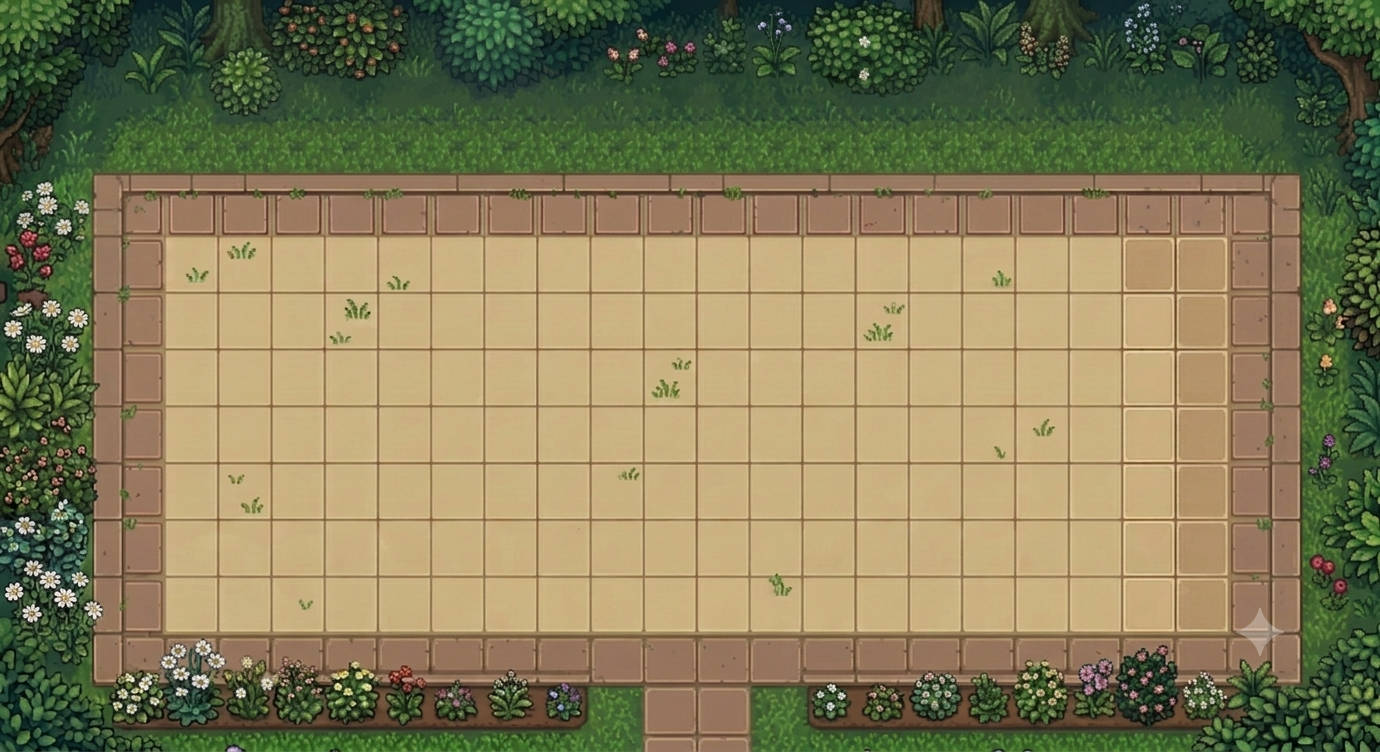
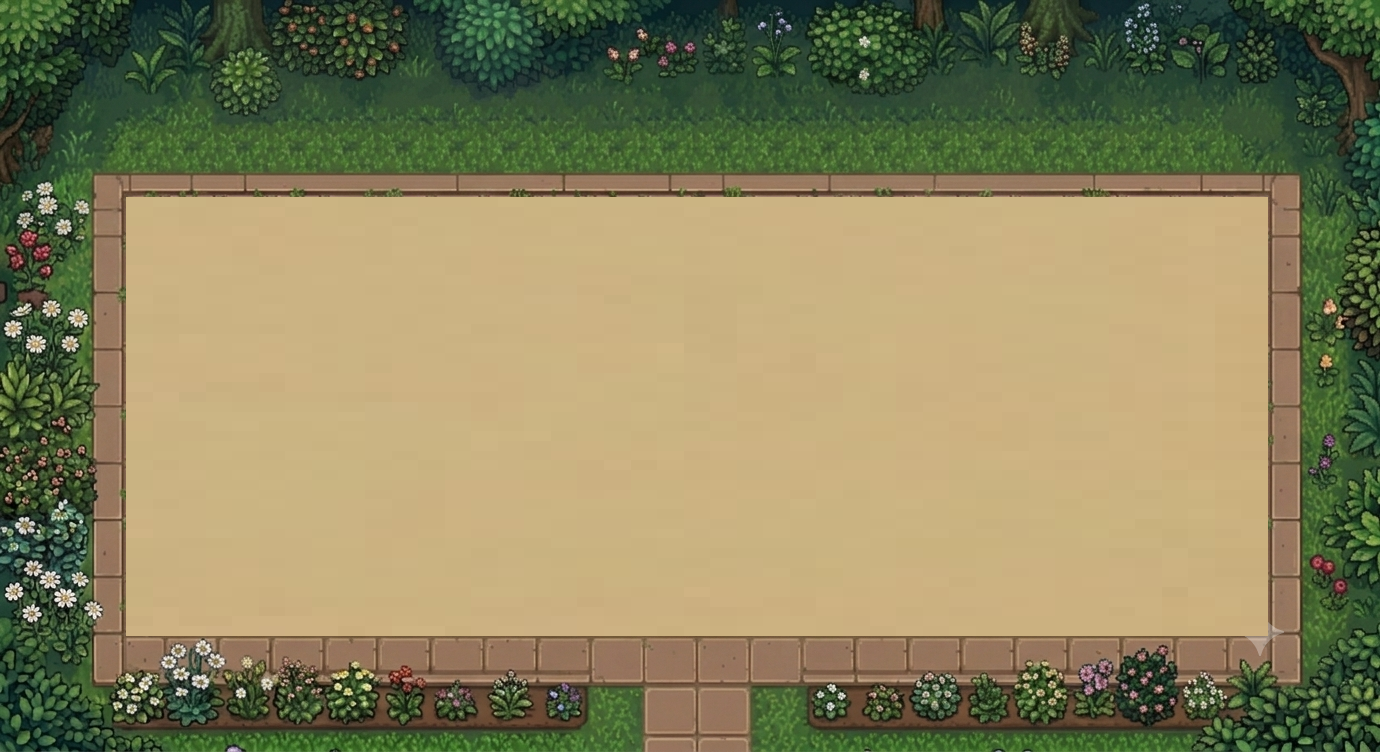
Mapa Listo sin Mariposas

diff --git a/core/src/main/java/com/juego/progra/Mapas/MapasNiveles.java b/core/src/main/java/com/juego/progra/Mapas/MapasNiveles.java
@@ -1,96 +1,98 @@
 package com.juego.progra.Mapas;
+import com.badlogic.gdx.math.Rectangle;
+import com.badlogic.gdx.Gdx;
 import com.badlogic.gdx.graphics.Texture;
 import com.badlogic.gdx.graphics.g2d.SpriteBatch;
+
+import java.sql.ClientInfoStatus;
+import java.util.ArrayList;
+
 public class MapasNiveles {
-
-    private int[][] mapaNivel1 = {
-        //0 Camino Libre
-        //1 borde
-        //2 Arbusto rompible (Normal)
-        //3 Arbusto irrompible (con flores)
-        //4 Objeto recolectable (por los momentos no tiene)
-        //5 invernadero
-        {1,1,1,1,1,1,1,1,1,1,1,1,1,1,1,1,1,1,1,1,1,1},
-        {1,0,0,0,0,0,0,0,0,0,0,0,0,0,0,0,0,0,0,0,0,1},
-        {3,0,3,2,2,2,2,2,2,0,0,0,0,2,2,2,2,2,2,3,0,3},
-        {3,0,2,0,0,0,0,0,0,0,0,0,0,0,0,0,0,0,0,2,0,3},
-        {3,0,2,0,3,2,2,0,2,0,5,5,0,2,0,0,2,3,0,2,0,3},
-        {3,0,0,0,2,0,0,0,0,5,5,5,5,0,0,0,0,2,0,0,0,3},
-        {3,0,2,0,3,2,2,0,0,5,5,5,5,0,0,2,2,3,0,2,0,3},
-        {3,0,2,0,0,0,0,0,2,0,0,0,0,2,0,0,0,0,0,2,0,3},
-        {3,0,3,2,2,2,2,2,2,0,0,0,0,2,2,2,2,2,2,3,0,3},
-        {3,0,0,0,0,0,0,0,0,0,0,0,0,0,0,0,0,0,0,0,0,3},
-        {1,0,0,0,0,0,0,0,0,0,0,0,0,0,0,0,0,0,0,0,0,1},
-        {1,1,1,1,1,1,1,1,1,1,1,1,1,1,1,1,1,1,1,1,1,1}
-    };
-
+    private ArrayList<Objetos> Listaobjetos;
+    private Texture arbusto;
+    private Texture arbustoFlores;
     private Texture fondo;
-    private Texture arbusto; //Rompible
-    private Texture arbustoFlores; //Irrompible
-    private Texture mariposa;
-    private Texture invernadero;
-    private Texture valla;
+    private Texture valla,invernadero;
 
     //Constructor
     public MapasNiveles() {
         fondo = new Texture("Fondo.png");
+        valla = new Texture("Valla.png");
+        invernadero = new Texture("Invernadero.png");
+        Listaobjetos = new ArrayList<>();
         arbusto = new Texture("Arbusto.png");
         arbustoFlores = new Texture("ArbustoFlores.png");
-        mariposa= new Texture("MariposaAzul.png");
-        invernadero= new Texture("Invernadero.png");
-        valla = new Texture("Valla.png");
+
+        cargarArchivo("nivelUno.txt");
     }
 
-    public void dibujar(SpriteBatch batch) {
-        batch.draw(fondo,0,0,1408,768);
+    public void cargarArchivo (String archivo){
 
-        float inicioX=124;
-        float inicioY=134;
+        if (!Gdx.files.internal(archivo).exists()){
+            System.out.println("Archivo de Mapa no encontrado");
+            return;
+        }else{
+            String contenidoArchivo = Gdx.files.internal(archivo).readString();
+            String[] lineas = contenidoArchivo.split("\n");
+            for(String linea : lineas){
+                if(linea.trim().isEmpty() || linea.trim().startsWith("#")) continue; // Agregamos .trim() aquí también
 
-        //Recorre la matriz
-        for (int i = 0; i < mapaNivel1.length; i++) {
-            for (int j = 0; j < mapaNivel1[i].length; j++) {
-                //Para calcular los pixeles en la pantalla
-                float xPixel = (j*52)+inicioX; //Columna, eje x
-                float yPixel = (i*36)+inicioY;//Fila, eje y
+                String[] datos = linea.split(",");
+                String tipoObj = datos[0].trim();
 
-                if(mapaNivel1[i][j]==2){
-                    batch.draw(arbusto,xPixel,yPixel,70,70);
-                }else if (mapaNivel1[i][j]==3) {
-                    batch.draw(arbustoFlores, xPixel, yPixel-10, 80, 80);
+                int x = Integer.parseInt(datos[1].trim());
+                int y = Integer.parseInt(datos[2].trim());
+
+                Texture imagen= null;
+                switch (tipoObj.toLowerCase()){
+                    case "arbusto":
+                        imagen = arbusto;
+                        break;
+                    case "arbusto_flores":
+                        imagen = arbustoFlores;
+                        break;
                 }
+                if(imagen!=null){
+                    Objetos ObjTemp = new Objetos(imagen,x,y,70,70,tipoObj);
+                    Listaobjetos.add(ObjTemp);
+                }
+
             }
 
         }
-        batch.draw(invernadero, 8 * 54, 4 * 57, 550, 270);
-        batch.draw(valla,0,0,1408, 768);
-    }
-    public boolean CaminarCelda (int cX, int cY){
-        if(cX<0 || cX>=12 || cY<0 || cY>=22){
-            return false;
-        }
-        int cActual = mapaNivel1[cX][cY];
-        if(cActual==0 ){
-            return true;
-        }else{
-            return false;
-        }
     }
 
-    public boolean obtenerObjeto(int cX,int cY){
-        int obj= mapaNivel1[cX][cY];
-        if(obj==4){
-            mapaNivel1[cX][cY]=0;
-            return true;
-        }else{
-            return false;
+    public boolean CaminarCelda(Rectangle rectanguloPersonaje){
+        for (int i = 0; i < Listaobjetos.size(); i++) {
+            Objetos obj =  Listaobjetos.get(i);
+            if (obj.destructible && rectanguloPersonaje.overlaps(obj.cajaObstaculo)){
+                return false;
+            }
+        }
+        return true;
+    }
+
+    public void obtenerObjeto (Rectangle rectanguloPersonaje){
+        for (int i = Listaobjetos.size() - 1; i >= 0; i--) {
+            Objetos obj = Listaobjetos.get(i);
+            if (obj.recogible && rectanguloPersonaje.overlaps(obj.cajaObstaculo)){
+                Listaobjetos.remove(i);
+                break;
+            }
         }
     }
-    public void dispose(){
-        fondo.dispose();
+    public void dibujar (SpriteBatch batch){
+        batch.draw(fondo,0,0,1408,768);
+        for (int i = 0; i < Listaobjetos.size(); i++) {
+            Objetos obj = Listaobjetos.get(i);
+            obj.dibujar(batch);
+        }
+        batch.draw(valla,0,0,1408,768);
+        batch.draw(invernadero,454,257,510,260);
+    }
+
+    public void dipose() {
         arbusto.dispose();
         arbustoFlores.dispose();
-        mariposa.dispose();
-        invernadero.dispose();
     }
 }

diff --git a/core/src/main/java/com/juego/progra/Main.java b/core/src/main/java/com/juego/progra/Main.java
@@ -1,10 +1,10 @@
 package com.juego.progra;
+import com.juego.progra.Mapas.MapasNiveles;
 import com.juego.progra.Personajes.Enemigo;
 import com.badlogic.gdx.Game;
 import com.badlogic.gdx.Gdx;
 import com.badlogic.gdx.graphics.GL20;
 import com.badlogic.gdx.graphics.g2d.SpriteBatch;
-import com.juego.progra.Mapas.MapasNiveles;
 import com.juego.progra.Personajes.Jugador;
 
 public class Main extends Game {
@@ -19,6 +19,17 @@ public class Main extends Game {
         mapa = new MapasNiveles();
         jugador = new Jugador(384, 458);
         enemigo = new Enemigo(400, 300);
+        Gdx.input.setInputProcessor(new com.badlogic.gdx.InputAdapter() {
+            @Override
+            public boolean touchDown(int screenX, int screenY, int pointer, int button) {
+                // La pantalla tiene Y invertido (el 0 arriba, el fondo abajo)
+                // Por eso, para que coincida con tu juego, usamos (Gdx.graphics.getHeight() - screenY)
+                int yCorregida = Gdx.graphics.getHeight() - screenY;
+
+                System.out.println("arbusto, " + screenX + ", " + yCorregida);
+                return true;
+            }
+        });
     }
 
     public void render(){
@@ -27,18 +38,18 @@ public class Main extends Game {
 
         float delta = Gdx.graphics.getDeltaTime();//-> MOVIMIENTO FLUIDO
 
-        jugador.actualizar(mapa, delta);//-> LLAMA AL METODO ACTUALIZAR Y SE LE PASA EL MAPA PARA COLISIONES DESPUES Y DELTA PARA EL MOVIMIENTO FLUIDO
+       /* jugador.actualizar(mapa, delta);//-> LLAMA AL METODO ACTUALIZAR Y SE LE PASA EL MAPA PARA COLISIONES DESPUES Y DELTA PARA EL MOVIMIENTO FLUIDO
         enemigo.actualizar(mapa, delta);
         // COLISION JUGADOR-ENEMIGO
         if (Math.abs(jugador.getX() - enemigo.getX()) < 50 &&
             Math.abs(jugador.getY() - enemigo.getY()) < 50) {
             jugador.recibirGolpe();
-        }
+        }*/
 
         batch.begin();// ABRE EL PINCEL , A PARTIR DE AQUI SE PUEDE DIBUJAR
         mapa.dibujar(batch);    // DIBUJA EL FONDO
-        jugador.dibujar(batch); // DIBUJA EL JUGADOR ENCIMA
-        enemigo.dibujar(batch);
+        //jugador.dibujar(batch); // DIBUJA EL JUGADOR ENCIMA
+        //enemigo.dibujar(batch);
         batch.end(); //CIERRA EL PINCEL, ENVIA TODO_ A LA PANTALLA
 
     }

diff --git a/core/src/main/java/com/juego/progra/Personajes/Enemigo.java b/core/src/main/java/com/juego/progra/Personajes/Enemigo.java
@@ -1,8 +1,7 @@
 package com.juego.progra.Personajes;
 import com.juego.progra.Mapas.MapasNiveles;
-import com.badlogic.gdx.math.MathUtils;
 
-  public class Enemigo extends Personaje {
+public class Enemigo extends Personaje {
 
       public Enemigo(float x, float y) {
           super(x, y, "personaje.png.png");//POR AHORA USAMOS LA MISMA IMAGEN DEL JUGADOR PARA LLENAR EL CONSTRUCTOR LUEGO LE PONEOS UNA DIFERENTE
@@ -14,7 +13,7 @@ import com.badlogic.gdx.math.MathUtils;
 
       @Override
       public void actualizar(MapasNiveles mapa, float delta) {
-          cambio+=delta;
+          /*cambio+=delta;
 
           if (cambio >= 2) { //CAMBIA CADA DOS SEGUNDOS DE DIRECCION
               direccion = MathUtils.random(0,3);
@@ -32,6 +31,6 @@ import com.badlogic.gdx.math.MathUtils;
 
           }
           x = Math.max(0, Math.min(x, 800 - 50));
-          y = Math.max(0, Math.min(y, 480 - 50));
+          y = Math.max(0, Math.min(y, 480 - 50));*/
       }
   }

diff --git a/core/src/main/java/com/juego/progra/Mapas/Objetos.java b/core/src/main/java/com/juego/progra/Mapas/Objetos.java
@@ -1,0 +1,27 @@
+package com.juego.progra.Mapas;
+
+import com.badlogic.gdx.graphics.Texture;
+import com.badlogic.gdx.graphics.g2d.SpriteBatch;
+
+import com.badlogic.gdx.math.Rectangle;
+
+public class Objetos {
+    public Texture imagen;
+    public Rectangle cajaObstaculo;
+    public String tipo;
+    public boolean recogible;
+    public boolean destructible;
+
+    public Objetos(Texture imagen, int x, int y, int ancho, int largo, String tipo) {
+        this.imagen=imagen;
+        this.cajaObstaculo = new Rectangle(x,y,ancho,largo);
+        this.tipo = tipo;
+
+        this.destructible = tipo.equals("arbusto") || tipo.equals("arbustoFlores");
+        this.recogible = tipo.equals("mariposa");
+
+    }
+    public void dibujar(SpriteBatch batch) {
+        batch.draw(imagen, cajaObstaculo.x, cajaObstaculo.y, cajaObstaculo.width, cajaObstaculo.height);
+    }
+}

diff --git a/core/src/main/java/com/juego/progra/Personajes/Jugador.java b/core/src/main/java/com/juego/progra/Personajes/Jugador.java
@@ -4,6 +4,7 @@ import com.badlogic.gdx.Gdx;
 import com.badlogic.gdx.Input;
 import com.juego.progra.Mapas.MapasNiveles;
 
+
 public class Jugador extends Personaje{
     private int vidas=5;
     private float tiempoSinPerderVidas = 0;
@@ -13,7 +14,7 @@ public class Jugador extends Personaje{
 
     @Override
     public void actualizar(MapasNiveles mapa, float delta) {
-        if (tiempoSinPerderVidas > 0) tiempoSinPerderVidas -= delta;
+        /*if (tiempoSinPerderVidas > 0) tiempoSinPerderVidas -= delta;
 
         // MOVIMIENTO EN X
         float newX = x;
@@ -55,6 +56,6 @@ public class Jugador extends Personaje{
     }
     public boolean estaVivo(){
         return vidas > 0;
+    }*/
     }
-
 }
